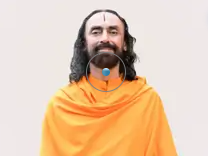
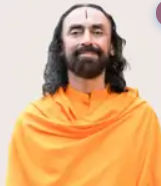
done with feelz page

diff --git a/src/components/Hero.tsx b/src/components/Hero.tsx
@@ -1,6 +1,6 @@
 "use client";
 
-import { useRef, useState } from "react";
+import { useEffect, useRef, useState } from "react";
 import Image from "next/image";
 import { useRouter } from "next/navigation";
 import { useQuery } from "@tanstack/react-query";
@@ -18,6 +18,38 @@ import type { ProductWithVariants } from "@/types/domain";
 function scrollTo(id: string) {
   document.getElementById(id)?.scrollIntoView({ behavior: "smooth", block: "start" });
 }
+
+// Types out each word, pauses, erases it, then moves to the next — loops
+// forever. "in sixty seconds" stays fixed outside this and isn't part of
+// the cycle, per the requested behavior.
+function useTypewriterCycle(words: string[], typeSpeed = 75, eraseSpeed = 40, pauseMs = 1100) {
+  const [index, setIndex] = useState(0);
+  const [subIndex, setSubIndex] = useState(0);
+  const [deleting, setDeleting] = useState(false);
+
+  useEffect(() => {
+    const current = words[index % words.length];
+
+    if (!deleting && subIndex === current.length) {
+      const pause = setTimeout(() => setDeleting(true), pauseMs);
+      return () => clearTimeout(pause);
+    }
+
+    if (deleting && subIndex === 0) {
+      setDeleting(false);
+      setIndex((i) => (i + 1) % words.length);
+      return;
+    }
+
+    const speed = deleting ? eraseSpeed : typeSpeed;
+    const timeout = setTimeout(() => setSubIndex((s) => s + (deleting ? -1 : 1)), speed);
+    return () => clearTimeout(timeout);
+  }, [subIndex, deleting, index, words, typeSpeed, eraseSpeed, pauseMs]);
+
+  return words[index % words.length].slice(0, subIndex);
+}
+
+const HERO_CYCLE_WORDS = ["tear it.", "place it.", "feel it."];
 
 const MOOD_GRID = [
   { key: "extrovert", label: "extrovert", src: "/products/extrovert.png" },
@@ -51,6 +83,7 @@ export function Hero() {
   const [pendingKey, setPendingKey] = useState<string | null>(null);
   const [addedKey, setAddedKey] = useState<string | null>(null);
   const [errorKey, setErrorKey] = useState<string | null>(null);
+  const typedCycle = useTypewriterCycle(HERO_CYCLE_WORDS);
 
   const catalogQuery = useQuery({
     queryKey: queryKeys.feelzCatalog(),
@@ -87,8 +120,25 @@ export function Hero() {
   }
 
   return (
-    <section ref={timelineRef} className="bg-cream">
-      <div className="mx-auto flex min-h-[calc(100svh-4.5rem)] max-w-5xl flex-col items-center justify-center px-4 py-12 text-center sm:px-6">
+    <section ref={timelineRef} className="bg-white">
+      {/* Scoped to just this intro block (not the product grid below) —
+          its own positioning context so the image/scrim size to this
+          block's own height instead of the whole section's. */}
+      <div className="relative">
+        <Image
+          src="/feelz-hero-bg.png"
+          alt=""
+          fill
+          priority
+          sizes="100vw"
+          className="object-cover"
+          aria-hidden
+        />
+        {/* Dark scrim, kept light — just enough for the text below to
+            stay readable without flattening the photo underneath. */}
+        <div className="absolute inset-0 bg-black/20" aria-hidden />
+
+        <div className="relative mx-auto flex min-h-[calc(100svh-4.5rem)] max-w-5xl flex-col items-center justify-center px-4 py-12 text-center sm:px-6">
         <TimelineContent
           as="button"
           animationNum={1}
@@ -113,13 +163,19 @@ export function Hero() {
           customVariants={revealVariants}
           className="font-display mx-auto mt-6 max-w-3xl text-4xl leading-[1.05] font-bold lowercase tracking-tight text-ink sm:text-6xl xl:text-7xl"
         >
-          tear it. place it.{" "}
-          <span className="bg-gradient-to-r from-[#f0405f] to-[#ff8a3d] bg-clip-text text-transparent">feel</span> it
-          in{" "}
-          <span className="bg-gradient-to-r from-[#2461e0] to-[#17b88b] bg-clip-text text-transparent">
-            sixty seconds
+          <span className="block text-center">
+            {typedCycle}
+            <span className="animate-pulse" aria-hidden>
+              |
+            </span>
           </span>
-          .
+          <span className="block text-center">
+            in{" "}
+            <span className="bg-gradient-to-r from-[#2461e0] to-[#17b88b] bg-clip-text text-transparent">
+              sixty seconds
+            </span>
+            .
+          </span>
         </TimelineContent>
 
         <TimelineContent
@@ -161,8 +217,10 @@ export function Hero() {
             </span>
           ))}
         </TimelineContent>
+        </div>
       </div>
 
+      <div className="bg-white">
       <div id="mood-picks" className="mx-auto max-w-5xl px-4 pb-16 sm:px-6">
         <div className="text-center">
           <div className="mx-auto flex w-fit items-center gap-3">
@@ -264,6 +322,7 @@ export function Hero() {
             );
           })}
         </div>
+      </div>
       </div>
     </section>
   );

diff --git a/src/app/feelz/page.tsx b/src/app/feelz/page.tsx
@@ -21,8 +21,10 @@ export default function FeelzPage() {
       <HowItWorksSection />
       <WhoItsForSection />
       <StatsBar />
-      <FaqSection />
-      <HeadsUpSection />
+      <div className="bg-white">
+        <FaqSection />
+        <HeadsUpSection />
+      </div>
     </>
   );
 }

diff --git a/src/components/ZostelLocationsSection.tsx b/src/components/ZostelLocationsSection.tsx
@@ -52,7 +52,8 @@ export function ZostelLocationsSection() {
   }, [locations, trimmedQuery]);
 
   return (
-    <section id="zostel-locations" className="mx-auto w-full min-w-0 max-w-6xl px-4 py-16 text-center sm:px-6">
+    <section id="zostel-locations" className="bg-white">
+      <div className="mx-auto w-full min-w-0 max-w-6xl px-4 py-16 text-center sm:px-6">
       <div className="mx-auto flex w-fit items-center gap-3">
         <span className="h-px w-10 bg-ink/20" aria-hidden />
         <span className="h-1.5 w-1.5 rounded-full bg-ink/40" aria-hidden />
@@ -133,7 +134,7 @@ export function ZostelLocationsSection() {
           {/* Desktop / tablet: normal manual horizontal scroll, width capped
               to ~3 cards so the rest are a deliberate scroll away rather
               than all laid out at once on wide screens. */}
-          <div className="scrollbar-hide mx-auto mt-10 hidden max-w-[52rem] justify-start gap-4 overflow-x-auto pb-2 sm:flex">
+          <div className="scrollbar-hide mx-auto mt-10 hidden max-w-[50rem] justify-start gap-4 overflow-x-auto pb-2 sm:flex">
             {locations.map((location) => (
               <LocationCard key={location.id} location={location} wide />
             ))}
@@ -147,6 +148,7 @@ export function ZostelLocationsSection() {
           Can&apos;t find it? Order online →
         </button>
       </p>
+      </div>
     </section>
   );
 }

diff --git a/src/components/CounsellingTeaserSection.tsx b/src/components/CounsellingTeaserSection.tsx
@@ -53,7 +53,7 @@ export function CounsellingTeaserSection() {
               <Reveal key={expert.id} delayMs={index * 80}>
                 <Link
                   href={`/book-appointment?expert=${expert.id}`}
-                  className="group block overflow-hidden rounded-3xl border border-ink/10 bg-cream text-left shadow-sm transition-all duration-300 hover:-translate-y-1 hover:shadow-lg"
+                  className="group block overflow-hidden rounded-3xl border border-ink/10 bg-white text-left shadow-sm transition-all duration-300 hover:-translate-y-1 hover:shadow-lg"
                 >
                   <div className="relative aspect-square w-full overflow-hidden bg-ink/5">
                     {expert.photo_url ? (
@@ -65,7 +65,7 @@ export function CounsellingTeaserSection() {
                         className="object-cover transition-transform duration-700 ease-out group-hover:scale-105"
                       />
                     ) : (
-                      <div className="flex h-full w-full items-center justify-center bg-white text-2xl font-bold text-ink">
+                      <div className="flex h-full w-full items-center justify-center bg-cream text-2xl font-bold text-ink">
                         {initialsFor(expert.name)}
                       </div>
                     )}

diff --git a/src/components/HowItWorksSection.tsx b/src/components/HowItWorksSection.tsx
@@ -23,7 +23,8 @@ const STEPS = [
 // language (cream/ink, numbered "0X" labels) instead of a generic gallery.
 export function HowItWorksSection() {
   return (
-    <section id="how-it-works" className="mx-auto max-w-6xl px-4 py-16 sm:px-6">
+    <section id="how-it-works" className="bg-white">
+      <div className="mx-auto max-w-6xl px-4 py-16 sm:px-6">
       <div className="text-center">
         <div className="mx-auto flex w-fit items-center gap-3">
           <span className="h-px w-10 bg-ink/20" aria-hidden />
@@ -73,6 +74,7 @@ export function HowItWorksSection() {
             </div>
           ))}
         </div>
+      </div>
       </div>
     </section>
   );

diff --git a/src/components/WhoItsForSection.tsx b/src/components/WhoItsForSection.tsx
@@ -60,7 +60,8 @@ const PERSONAS: { title: string; tagline: string; description: string; moods: Mo
 
 export function WhoItsForSection() {
   return (
-    <section id="who-its-for" className="mx-auto max-w-6xl px-4 py-16 sm:px-6">
+    <section id="who-its-for" className="bg-white">
+      <div className="mx-auto max-w-6xl px-4 py-16 sm:px-6">
       <div className="text-center">
         <div className="mx-auto flex w-fit items-center gap-3">
           <span className="h-px w-10 bg-ink/20" aria-hidden />
@@ -121,6 +122,7 @@ export function WhoItsForSection() {
             </div>
           );
         })}
+      </div>
       </div>
     </section>
   );

diff --git a/src/components/AccordionFaq.tsx b/src/components/AccordionFaq.tsx
@@ -35,7 +35,7 @@ export function AccordionFaq({ id, heading, items }: { id?: string; heading: str
                 aria-expanded={isOpen}
                 className="flex w-full items-center gap-4"
               >
-                <span className="font-display flex-1 text-center text-base font-semibold text-ink sm:text-lg">
+                <span className="font-display flex-1 text-center text-base font-semibold text-ink sm:text-left sm:text-lg">
                   {faq.question}
                 </span>
                 <ChevronDown

diff --git a/src/components/TestimonialsSection.tsx b/src/components/TestimonialsSection.tsx
@@ -21,7 +21,7 @@ function ReviewCard({ review, featured }: { review: Review; featured?: boolean }
   return (
     <div
       className={`flex h-full flex-col justify-between rounded-3xl p-6 text-left shadow-sm transition-all duration-300 hover:-translate-y-1 hover:shadow-lg ${
-        featured ? "bg-ink text-cream" : "border border-ink/10 bg-cream text-ink"
+        featured ? "bg-ink text-cream" : "border border-ink/10 bg-white text-ink"
       }`}
     >
       <div>